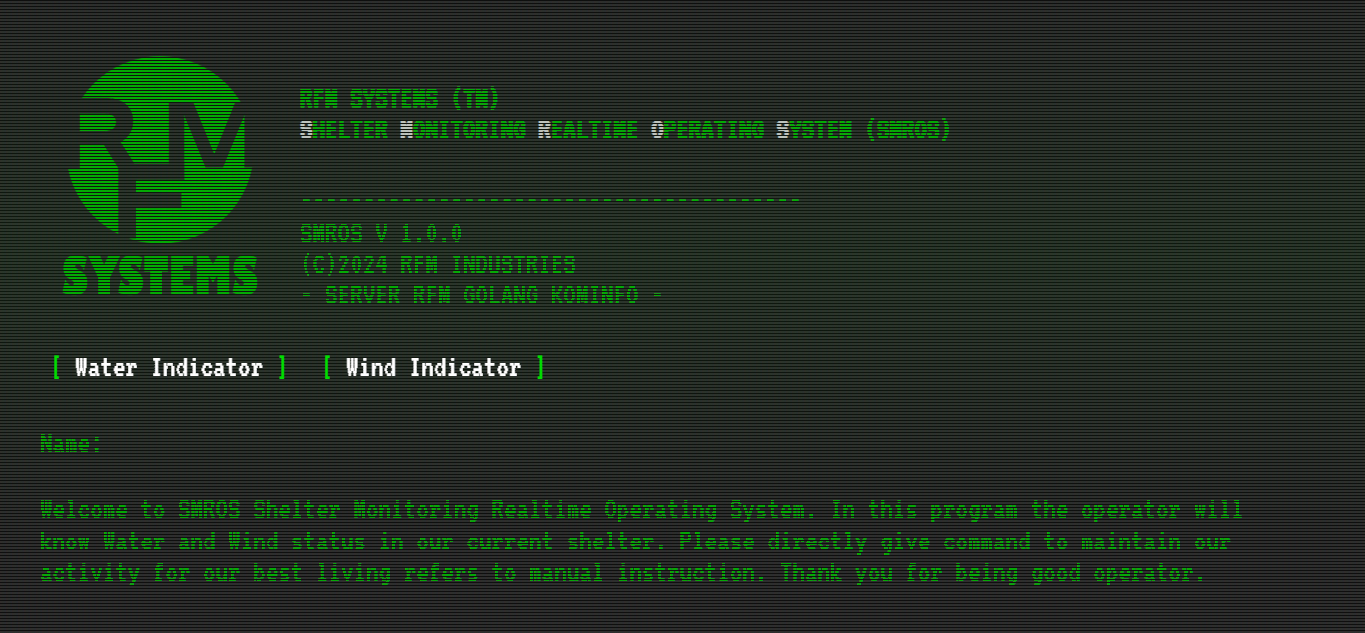
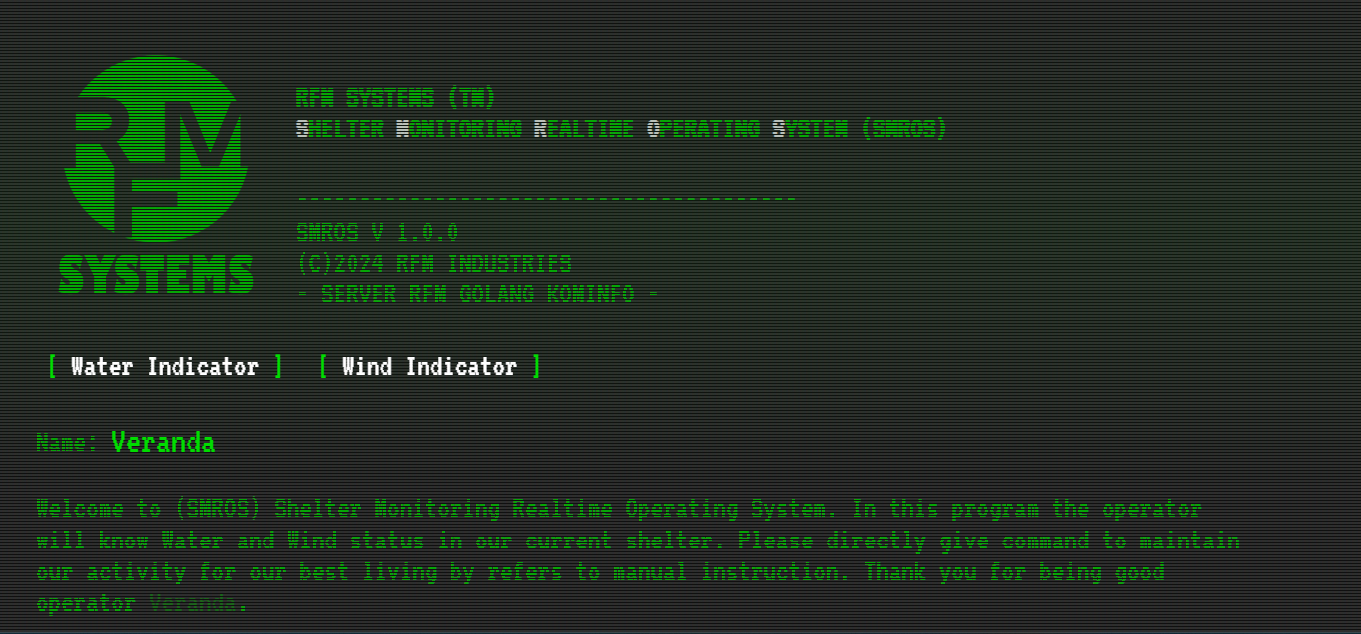
little adjusment to manual lines dialogue

diff --git a/Tugas_3/views/halaman.html b/Tugas_3/views/halaman.html
@@ -449,7 +449,7 @@ a.button:hover {
     </script>
     <input id="operatorName" type="text" oninput="operatorName(this.value)" />
     <p class="clear"><br /></p>
-    <p>Welcome to (SMROS) Shelter Monitoring Realtime Operating System. In this program the operator will know Water and Wind status in our current shelter. Please directly give command to maintain our activity for our best living refers to manual instruction. Thank you for being good operator <span id="displayOperatorName"></span>.</p><br />
+    <p>Welcome to (SMROS) Shelter Monitoring Realtime Operating System. In this program the operator will know Water and Wind status in our current shelter. Please directly give command to maintain our activity for our best living by refers to manual instruction. Thank you for being good operator <span id="displayOperatorName"></span>.</p><br />
     <h1>Shelter Status</h1>
     <p>Status:</p>
     <ul>
